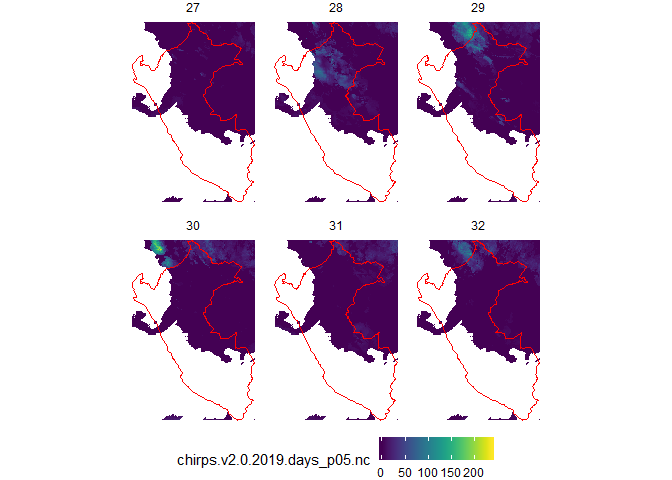
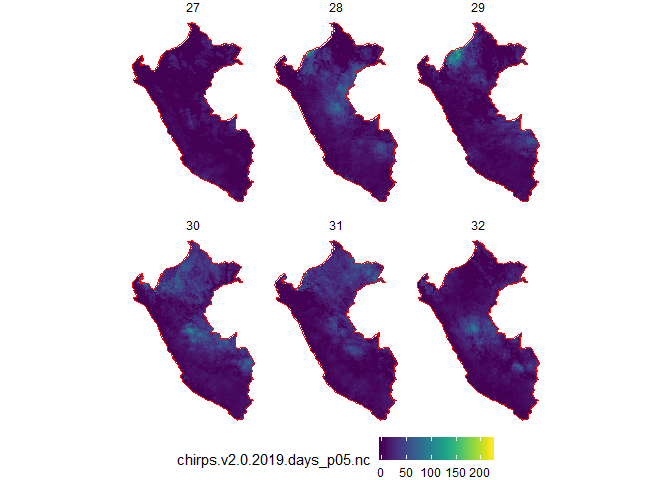
Corrected referencing issue

diff --git a/README.md b/README.md
@@ -30,7 +30,7 @@ Packages such as `netcdf4` and `RNetCDF` are meant to handle such data in R. How
 devtools::install_github('r-spatial/stars')
 ```
 
-To load the data, `stars` makes use of its generic `read_stars` function which allows reading raster/array data. The function `read_ncdf` is also available and uses the netcdf package directly to load. We load the data as a `stars_proxy` object which allows for faster manipulation of the data.
+To load the data, `stars` makes use of its generic `read_stars` function which allows reading raster/array data. The function `read_ncdf` is also available and uses the netcdf package directly to load. ~~We load the data as a `stars_proxy` object which allows for faster manipulation of the data.~~ (There are some issues while projecting the data as a proxy and then cropping which I will try to report to the package developers.)
 
 ``` r
 library(stars)
@@ -43,21 +43,27 @@ library(stars)
     ## Linking to GEOS 3.6.1, GDAL 2.2.3, PROJ 4.9.3
 
 ``` r
-chirps19 <- read_stars('chirps-v2.0.2019.days_p05.nc', proxy = T)
+chirps19 <- read_stars('chirps-v2.0.2019.days_p05.nc', NA_value = -9999)
 chirps19
 ```
 
-    ## stars_proxy object with 1 attribute in file:
-    ## $`chirps-v2.0.2019.days_p05.nc`
-    ## [1] "chirps-v2.0.2019.days_p05.nc"
-    ## 
+    ## stars object with 3 dimensions and 1 attribute
+    ## attribute(s), summary of first 1e+05 cells:
+    ##  chirps-v2.0.2019.days_p05.nc 
+    ##  Min.   : 0.00                
+    ##  1st Qu.: 0.00                
+    ##  Median : 1.43                
+    ##  Mean   : 1.40                
+    ##  3rd Qu.: 2.28                
+    ##  Max.   :12.38                
+    ##  NA's   :97816                
     ## dimension(s):
     ##      from   to offset delta refsys point values    
     ## x       1 7200     NA    NA     NA    NA   NULL [x]
     ## y       1 2000     NA    NA     NA    NA   NULL [y]
     ## band    1   59     NA    NA     NA    NA   NULL
 
-the data is not really loaded into R's memory but only accessed when necessary. Basic subsetting functions can be applied. For this, we can use the `tidyverse` functions by using the `dplyr` package.
+Basic subsetting functions can be applied. For this, we can use the `tidyverse` functions by using the `dplyr` package. In the example below I take day 13 for a basic visualization. The pixel size is larger as we are loading the data as a proxy and visualization gets enhanced.
 
 ``` r
 library(dplyr)
@@ -81,22 +87,22 @@ chirps19 %>% slice(band, 13) %T>% plot(breaks = 'equal')
 
 ![](README_files/figure-markdown_github/plot_ex-1.png)
 
-    ## stars_proxy object with 1 attribute in file:
-    ## $`chirps-v2.0.2019.days_p05.nc`
-    ## [1] "chirps-v2.0.2019.days_p05.nc"
-    ## 
+    ## stars object with 2 dimensions and 1 attribute
+    ## attribute(s), summary of first 1e+05 cells:
+    ##  chirps.v2.0.2019.days_p05.nc 
+    ##  Min.   : 0.00                
+    ##  1st Qu.: 0.00                
+    ##  Median : 0.00                
+    ##  Mean   : 1.50                
+    ##  3rd Qu.: 0.91                
+    ##  Max.   :90.16                
+    ##  NA's   :97816                
     ## dimension(s):
-    ##      from   to offset delta refsys point values    
-    ## x       1 7200     NA    NA     NA    NA   NULL [x]
-    ## y       1 2000     NA    NA     NA    NA   NULL [y]
-    ## band    1   59     NA    NA     NA    NA   NULL    
-    ## call list:
-    ## [[1]]
-    ## x[i = TRUE, , , 13, drop = TRUE]
+    ##   from   to offset delta refsys point values    
+    ## x    1 7200     NA    NA     NA    NA   NULL [x]
+    ## y    1 2000     NA    NA     NA    NA   NULL [y]
 
-The plotting works with a different cell size, but this is only for speed purposes and is not the actual resolution. If we extract a smaller study area we can see this change.
-
-For this we can first take a look at the `rnaturalearth` packages.
+If we extract a smaller study area, the pixel size plots at a better scale. For this we can first take a look at the `rnaturalearth` packages.
 
 ``` r
 library(rnaturalearth)
@@ -132,79 +138,77 @@ chirps_tif
     ## x    1 7200   -180  0.05 +proj=longlat +datum=WGS8... FALSE   NULL [x]
     ## y    1 2000     50 -0.05 +proj=longlat +datum=WGS8... FALSE   NULL [y]
 
-Projecting the NetCDF file will follow the next procedure:
+Now, although the offset and delta for `y` has a positive and negative value respectively, this does not create a good reference of the data, so I switched the signs to make it work better. Below, a quick function to make this process easier when applied to other parts.
 
 ``` r
-chirps19_proj <- chirps19 %>% st_set_crs(st_crs(chirps_tif))
-
-attr(chirps19_proj, 'dimensions')[[1]]$delta = attr(chirps_tif, 'dimensions')[[1]]$delta
-attr(chirps19_proj, 'dimensions')[[2]]$delta = attr(chirps_tif, 'dimensions')[[2]]$delta
-attr(chirps19_proj, 'dimensions')[[1]]$offset = attr(chirps_tif, 'dimensions')[[1]]$offset
-attr(chirps19_proj, 'dimensions')[[2]]$offset = attr(chirps_tif, 'dimensions')[[2]]$offset
+st_set_chirps_dimensions <- function(x){
+  x_def <- x %>% st_set_dimensions('x', offset = -180, delta = 0.05, refsys = "+proj=longlat +datum=WGS84 +no_defs")
+  x_def <- x_def %>% st_set_dimensions('y', offset = -50, delta = 0.05, refsys = "+proj=longlat +datum=WGS84 +no_defs")
+  x_def
+}
 ```
 
-Once we have this, we can view the data just for the study areas.
+``` r
+chirps19_def <- chirps19 %>% st_set_chirps_dimensions()
+```
+
+Once we have this, we can save the data as an `stars` object and plot the data just for the study areas.
 
 ``` r
-chirps19_proj[peru][,,,1:15] %T>% plot(breaks = 'equal') 
+chirps19_peru <- chirps19_def[peru] 
+```
+
+    ## although coordinates are longitude/latitude, st_intersects assumes that they are planar
+
+``` r
+chirps19_taiwan <- chirps19_def[taiwan] 
+```
+
+    ## although coordinates are longitude/latitude, st_intersects assumes that they are planar
+
+``` r
+chirps19_peru[,,,1:15] %T>% plot(breaks = 'equal') 
 ```
 
 ![](README_files/figure-markdown_github/subset_ex-1.png)
 
-    ## stars_proxy object with 1 attribute in file:
-    ## $`chirps-v2.0.2019.days_p05.nc`
-    ## [1] "chirps-v2.0.2019.days_p05.nc"
-    ## 
+    ## stars object with 3 dimensions and 1 attribute
+    ## attribute(s), summary of first 1e+05 cells:
+    ##  chirps.v2.0.2019.days_p05.nc 
+    ##  Min.   : 0.00                
+    ##  1st Qu.: 0.00                
+    ##  Median : 0.00                
+    ##  Mean   : 1.70                
+    ##  3rd Qu.: 0.00                
+    ##  Max.   :58.45                
+    ##  NA's   :56629                
     ## dimension(s):
     ##      from   to offset delta                       refsys point values    
     ## x    1974 2227   -180  0.05 +proj=longlat +datum=WGS8...    NA   NULL [x]
-    ## y    1001 1367     50 -0.05 +proj=longlat +datum=WGS8...    NA   NULL [y]
-    ## band    1   59     NA    NA                           NA    NA   NULL    
-    ## call list:
-    ## [[1]]
-    ## x[i = TRUE, , , 1:15]
+    ## y     634 1000    -50  0.05 +proj=longlat +datum=WGS8...    NA   NULL [y]
+    ## band    1   15     NA    NA                           NA    NA   NULL
 
 ``` r
-chirps19_proj[taiwan][,,,1:15] %T>% plot(breaks = 'equal') 
+chirps19_taiwan[,,,1:15] %T>% plot(breaks = 'equal') 
 ```
 
 ![](README_files/figure-markdown_github/subset_ex-2.png)
 
-    ## stars_proxy object with 1 attribute in file:
-    ## $`chirps-v2.0.2019.days_p05.nc`
-    ## [1] "chirps-v2.0.2019.days_p05.nc"
-    ## 
+    ## stars object with 3 dimensions and 1 attribute
+    ## attribute(s):
+    ##  chirps.v2.0.2019.days_p05.nc 
+    ##  Min.   : 0.00                
+    ##  1st Qu.: 0.00                
+    ##  Median : 0.00                
+    ##  Mean   : 1.49                
+    ##  3rd Qu.: 0.00                
+    ##  Max.   :68.13                
+    ##  NA's   :56430                
     ## dimension(s):
     ##      from   to offset delta                       refsys point values    
     ## x    5966 6039   -180  0.05 +proj=longlat +datum=WGS8...    NA   NULL [x]
-    ## y     495  562     50 -0.05 +proj=longlat +datum=WGS8...    NA   NULL [y]
-    ## band    1   59     NA    NA                           NA    NA   NULL    
-    ## call list:
-    ## [[1]]
-    ## x[i = TRUE, , , 1:15]
-
-Once we have the data we need, we can really call it into R for further analysis. In this step I will also set the NA value to -9999
-
-``` r
-chirps19_peru <- chirps19_proj[peru] %>% st_as_stars() %>% na_if(-9999)
-chirps19_taiwan <- chirps19_proj[taiwan] %>% st_as_stars() %>% na_if(-9999)
-```
-
-One thing to be aware of is that the projection does not come with the new data, and therefore the process should be repeated.
-
-``` r
-chirps19_peru <- chirps19_peru %>% st_set_crs(st_crs(chirps_tif))
-attr(chirps19_peru, 'dimensions')[[1]]$delta = attr(chirps_tif, 'dimensions')[[1]]$delta
-attr(chirps19_peru, 'dimensions')[[2]]$delta = attr(chirps_tif, 'dimensions')[[2]]$delta
-attr(chirps19_peru, 'dimensions')[[1]]$offset = attr(chirps_tif, 'dimensions')[[1]]$offset
-attr(chirps19_peru, 'dimensions')[[2]]$offset = attr(chirps_tif, 'dimensions')[[2]]$offset
-
-chirps19_taiwan <- chirps19_taiwan %>% st_set_crs(st_crs(chirps_tif))
-attr(chirps19_taiwan, 'dimensions')[[1]]$delta = attr(chirps_tif, 'dimensions')[[1]]$delta
-attr(chirps19_taiwan, 'dimensions')[[2]]$delta = attr(chirps_tif, 'dimensions')[[2]]$delta
-attr(chirps19_taiwan, 'dimensions')[[1]]$offset = attr(chirps_tif, 'dimensions')[[1]]$offset
-attr(chirps19_taiwan, 'dimensions')[[2]]$offset = attr(chirps_tif, 'dimensions')[[2]]$offset
-```
+    ## y    1439 1506    -50  0.05 +proj=longlat +datum=WGS8...    NA   NULL [y]
+    ## band    1   15     NA    NA                           NA    NA   NULL
 
 With this, we can do better plots by using the `ggplot2` package.
 
@@ -245,11 +249,7 @@ ggplot() +
 
 ![](README_files/figure-markdown_github/ggplot_ex-2.png)
 
-Only a small subset of the 59 days available were taken for visualization. The data itself represents precipitation in mm/day. Just as a small analysis, we can see that there are several NA values for Peru, whereas, for Taiwan, the data seems fairly complete. It seems like the data available will not be suitable for the Cordillera Blanca study area in Peru. Looking at the data in QGIS, I noticed that the data just skips the Kizl glacier. so probably, for this case we still need to look at the SENAMHI data.
-
-![](./README_files/figure-markdown_github/kinzl_peru.PNG)
-
-![](./README_files/figure-markdown_github/kinzl_zoom.PNG)
+Only a small subset of the 59 days available were taken for visualization. The data itself represents precipitation in mm/day.
 
 References
 ==========
